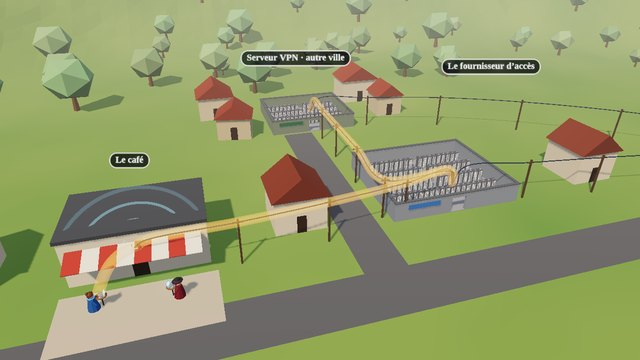
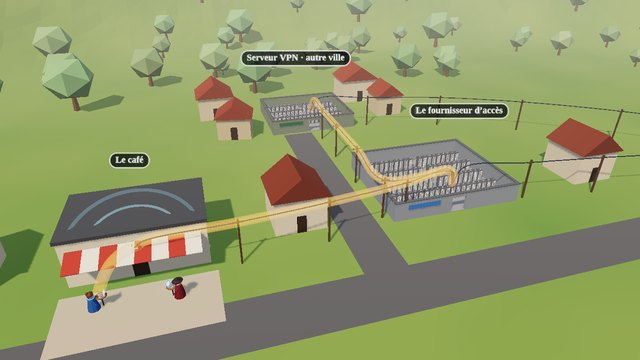
Le tunnel: the provider's name over the back of its low hall, not at the old roof height (r364)
Since r360 the provider is a 2 m roofless hall, but its place name still hung at
y 11.4 and 9 m east, for the old 8 m building: it floated beside the hall. It now
sits over the hall's back wall at y 6.5, anchored left at the hall's middle and
running east, so on the map seen whole (steps 11, 14) it stays clear of Victor's
tag west of it (r225). A metre higher than the first try so the folded corner
card does not make pinTags hide it on a phone at step 14 (r226).
tools/vpn_place_probe.py prints the names' and tags' screen boxes and the walls.
Vignette regenerated.

Persona: Cass Cryptographie
Session: cass-fedora-deux-generaux-136

Changed region(s): [[0.0938, 0.5194, 0.3125, 0.6417], [0.625, 0.275, 0.8125, 0.3361], [0.6875, 0.1528, 0.8438, 0.2139]]

diff --git a/vpn/js/stage.js b/vpn/js/stage.js
@@ -10,7 +10,7 @@ import { NODES, SPOTS, edge } from './world.js';
 import { envelope, tag, setTag, key, person, COLORS } from './props.js';
 import { ADDR, NAME, OTHERS, PUBLIC, KEY, hex, sees, route, opened, flipped, SEALED } from './net.js';
 import { burst, ring } from '../../lib/fx.js';
-import { sfx } from './sound.js';
+import { sfx } from '../../lib/sound.js';
 import { t, raw } from './i18n.js';
 import { portrait } from './camera.js';
 
@@ -77,7 +77,8 @@ export class Stage {
     }
     // each place's name over the back of its roof, clear of the watchers' tags at the front
     this.places.cafe.position.set(SPOTS.cafe.x, 7.6, SPOTS.cafe.z - 2.5);
-    this.places.isp.position.set(SPOTS.isp.x + 9, 11.4, SPOTS.isp.z - 3);   // east of the roof: Victor's tag, seen whole, stands west of it (r225)
+    // the provider's starts over the middle of its hall's back and runs east: Victor's tag, seen whole, stands west of it (r225, r364)
+    this.places.isp.position.set(SPOTS.isp.x, 6.5, SPOTS.isp.z - 4.5); this.places.isp.center.set(0, .5);
     this.places.vpn.position.set(SPOTS.vpn.x, 8, SPOTS.vpn.z - 2.5);
     this.places.bob.position.set(SPOTS.bob.x, 7.6, SPOTS.bob.z - 2);
     this.tags.i.position.copy(NODES.i).add(v(0, -.6, .8));

diff --git a/tools/vpn_place_probe.py b/tools/vpn_place_probe.py
@@ -1,0 +1,15 @@
+"""Screen boxes of vpn/'s place names and watcher tags on a phone (390x844), after pinTags, with the
+page's walls: says which name pinTags hid and why (r364). tools/vpn_place_probe.py STEP [base]"""
+import sys, json
+from playwright.sync_api import sync_playwright
+step = sys.argv[1]
+base = sys.argv[2] if len(sys.argv) > 2 else 'http://localhost:8793/'
+with sync_playwright() as p:
+    b = p.chromium.launch(); pg = b.new_page(viewport={'width':390,'height':844})
+    pg.goto(f'{base}vpn/?instant=1#story={step}'); pg.wait_for_function("window.demo && window.demo.ready", timeout=60000)
+    pg.wait_for_timeout(9000)
+    print(json.dumps(pg.evaluate("""async () => { const s=demo.stage, c=demo.camera, o={};
+      for (const [k,p] of Object.entries(s.places)) { const b=s.screenBox(p,c); o[k]={vis:p.visible, op:+p.material.opacity.toFixed(2), b: b && [b.x,b.y,b.w,b.h].map(Math.round)}; }
+      for (const [k,t] of Object.entries(s.tags)) { const b=s.screenBox(t,c); o['tag_'+k]={vis:t.visible, b: b && [b.x,b.y,b.w,b.h].map(Math.round)}; }
+      o.walls=(await import("./js/bubbles.js")).walls().map(b=>[b.x,b.y,b.w,b.h].map(Math.round)); return o; }"""), indent=0))
+    b.close()
